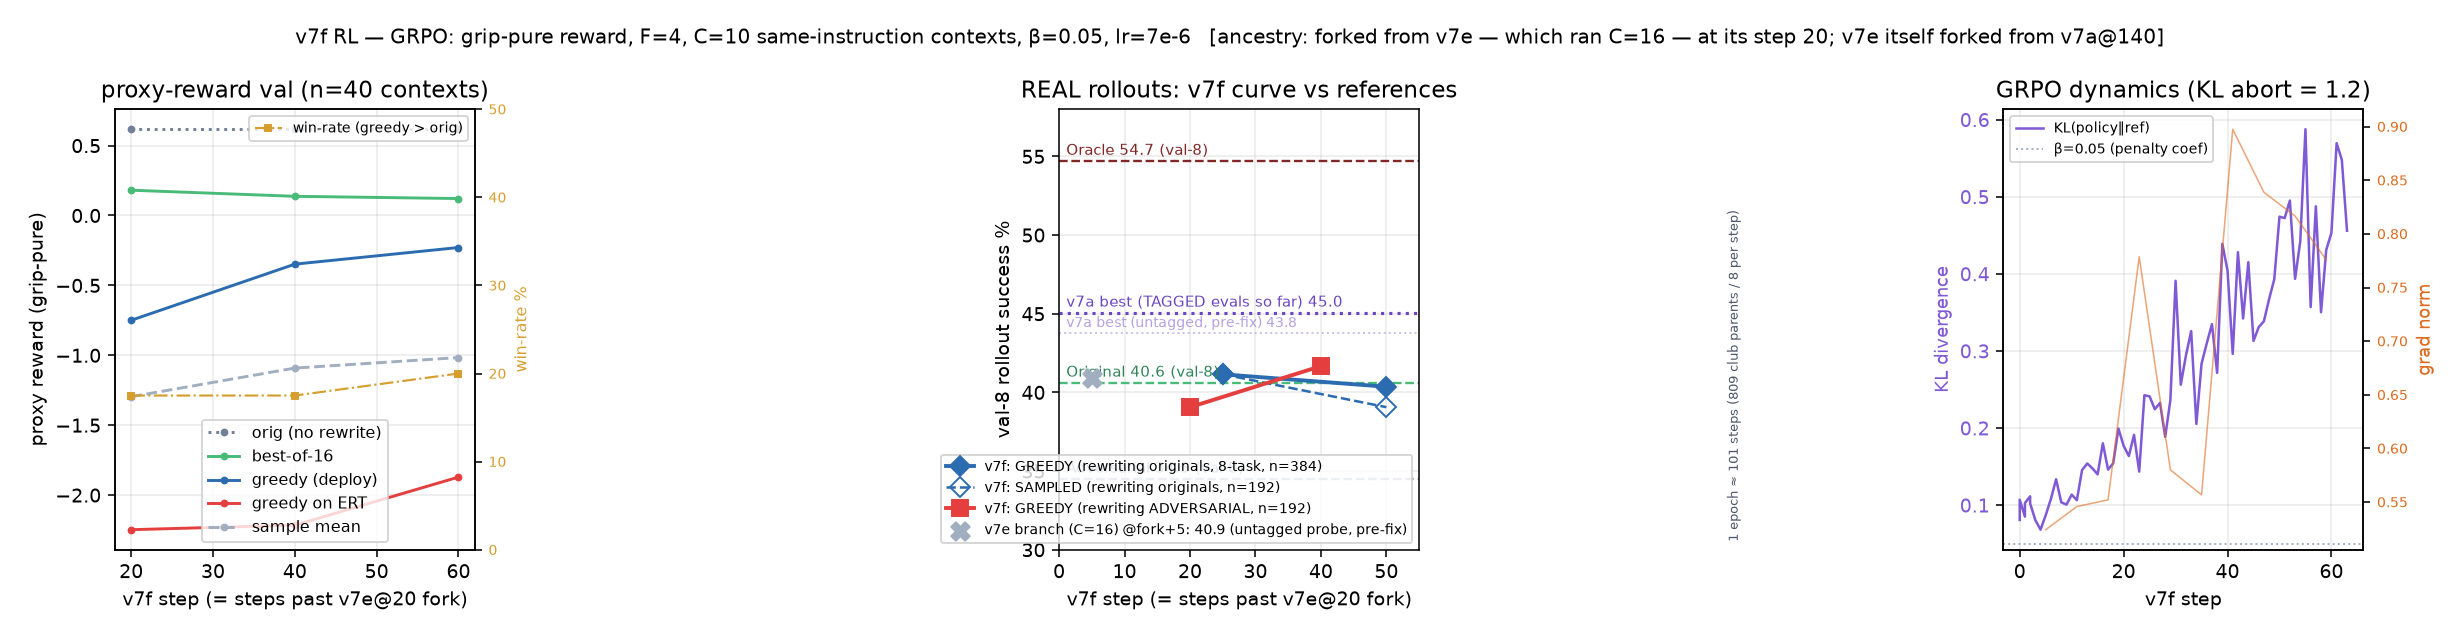
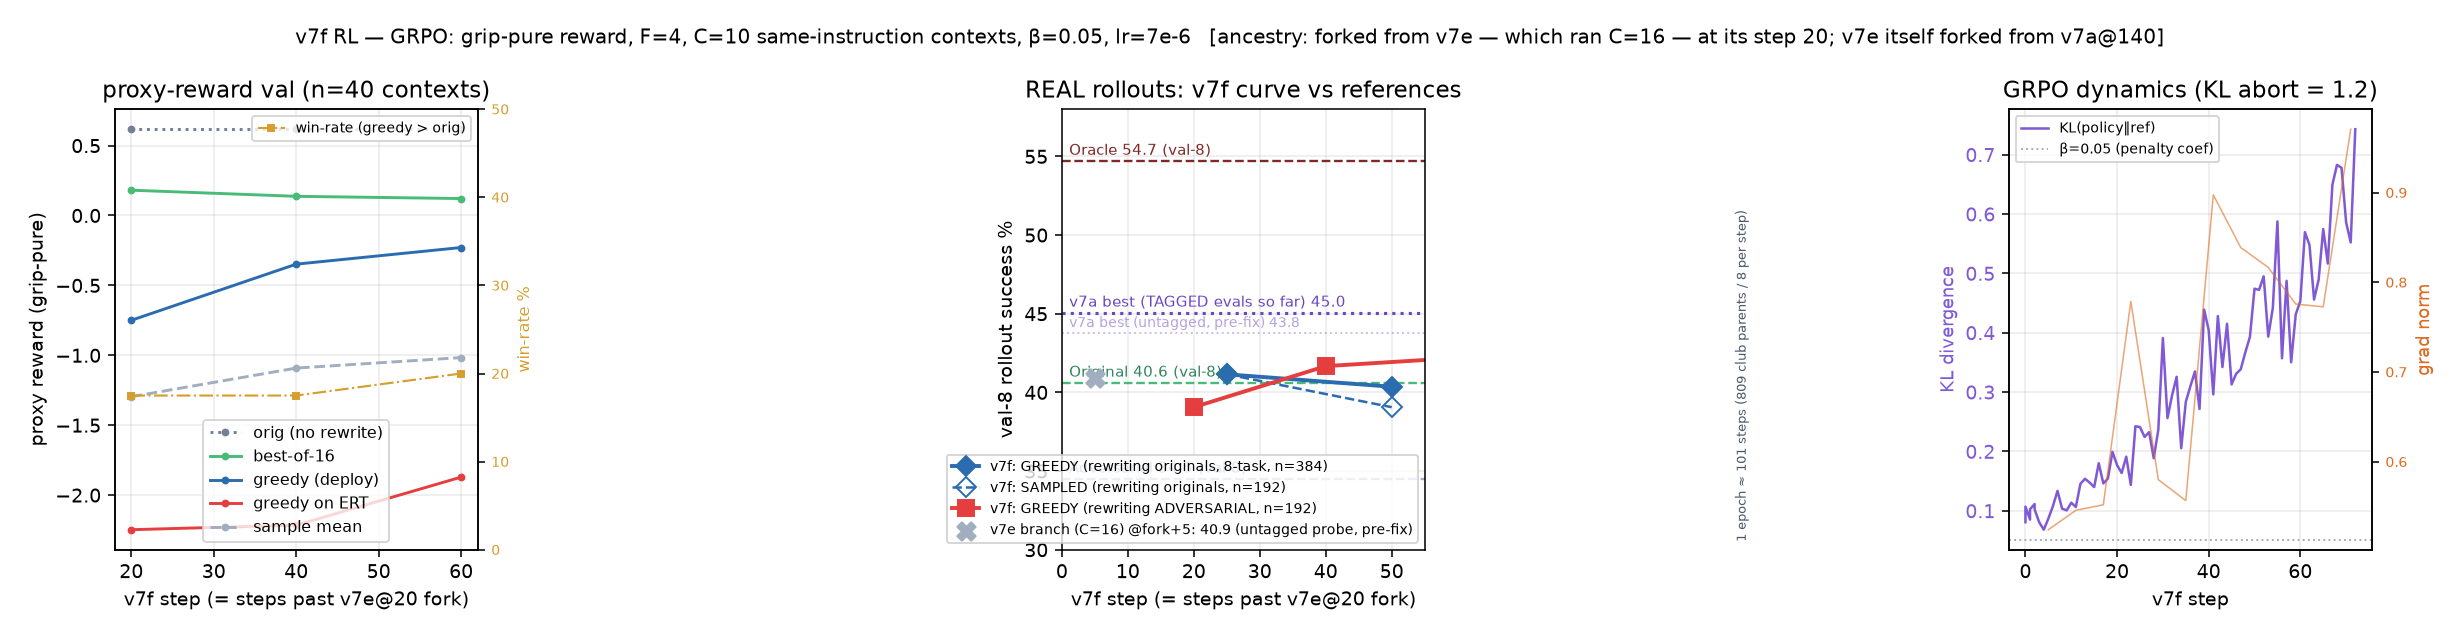
v7f adv-60: 42.19, third consecutive climb

diff --git a/EXPERIMENT.md b/EXPERIMENT.md
@@ -2332,3 +2332,9 @@ rep-1-only comparisons vs multi-rep references (references averaged 12 seedsets)
 v7f's rep-1 rollout points likely UNDERSTATE its level vs references by the same
 mechanism. Deepening verdict updated: it caught a systematic bias, not just
 variance — worth it.
+
+## 2026-07-30 ~02:55 — v7f adv-60 = 42.19: three consecutive climbing repair points
+Curve: 20/40/60 = 39.06/41.67/42.19 (1-rep; 2-rep re-rolls queued). Keyboard
+repair 25.0 at all three (stable capability); cokeplate repair rising (21->37.5).
++7.7 over raw-Adversarial at step 60, above the Original reference. The
+high-resolution-reward-enables-repair prediction is holding as a trend.
